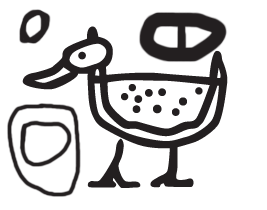
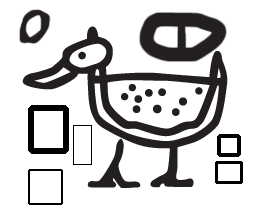
new

Changed region(s): [[0.0, 0.4857, 0.3596, 1.0], [0.779, 0.6286, 0.9288, 0.8857]]

diff --git a/html5-canvas-paint-bucket.js b/html5-canvas-paint-bucket.js
@@ -20,8 +20,8 @@ var paintBucketApp = (function() {
     "use strict";
 
     var context,
-        canvasWidth = 490,
-        canvasHeight = 220,
+        canvasWidth = 500,
+        canvasHeight = 500,
         colorPurple = {
             r: 203,
             g: 53,
@@ -50,10 +50,10 @@ var paintBucketApp = (function() {
         swatchStartY = 19,
         swatchImageWidth = 93,
         swatchImageHeight = 46,
-        drawingAreaX = 111,
+        drawingAreaX = 100,
         drawingAreaY = 11,
-        drawingAreaWidth = 267,
-        drawingAreaHeight = 200,
+        drawingAreaWidth = 300,
+        drawingAreaHeight = 300,
         colorLayerData,
         outlineLayerData,
         totalLoadResources = 3,
@@ -307,6 +307,10 @@ var paintBucketApp = (function() {
             canvas.setAttribute('id', 'canvas');
             document.getElementById('canvasDiv').appendChild(canvas);
 
+            canvas.style.display = 'block';
+            canvas.style.margin = '0 auto';
+            canvas.style.top = '50%';
+
             if (typeof G_vmlCanvasManager !== "undefined") {
                 canvas = G_vmlCanvasManager.initElement(canvas);
             }
@@ -336,7 +340,7 @@ var paintBucketApp = (function() {
                 resourceLoaded();
             };
             //outlineImage.src = "images/watermelon-duck-outline.png";
-            outlineImage.src = "images/mara_1.png";
+            outlineImage.src = "images/mara_3.png";
         };
 
     return {

diff --git a/html5-canvas-paint-bucket.html b/html5-canvas-paint-bucket.html
@@ -2,11 +2,16 @@
 <html>
 
 <head>
-    <title>Create HTML5 Canvas JavaScript Paint Bucket Example</title>
+    <style>
+        .canvasDiv {
+            width: 100%;
+            height: 100vh;
+        }
+    </style>
 </head>
 
 <body>
-    <div id="canvasDiv"></div>
+    <div class="canvasDiv" id="canvasDiv"></div>
     <script type="text/javascript" src="https://ajax.googleapis.com/ajax/libs/jquery/1.4.2/jquery.js"></script>
     <!--[if IE]><script type="text/javascript" src="excanvas.js"></script><![endif]-->
     <script type="text/javascript" src="html5-canvas-paint-bucket.js"></script>

diff --git a/color.py b/color.py
@@ -1,0 +1,19 @@
+
+from PIL import Image
+
+im = Image.open('images/mara_2.png')
+pix = im.load()
+width = im.size[0]
+height = im.size[1]
+
+for x in range(width):
+    for y in range(height):
+        r, g, b, a = im.getpixel((x,y))
+        rgba = r, g, b, a
+
+        if(0 < a < 255):
+            im.putpixel((x,y),(0, 0, 0, 255))
+            
+
+im = im.convert('RGBA')
+im.save('images/mara_3.png')
